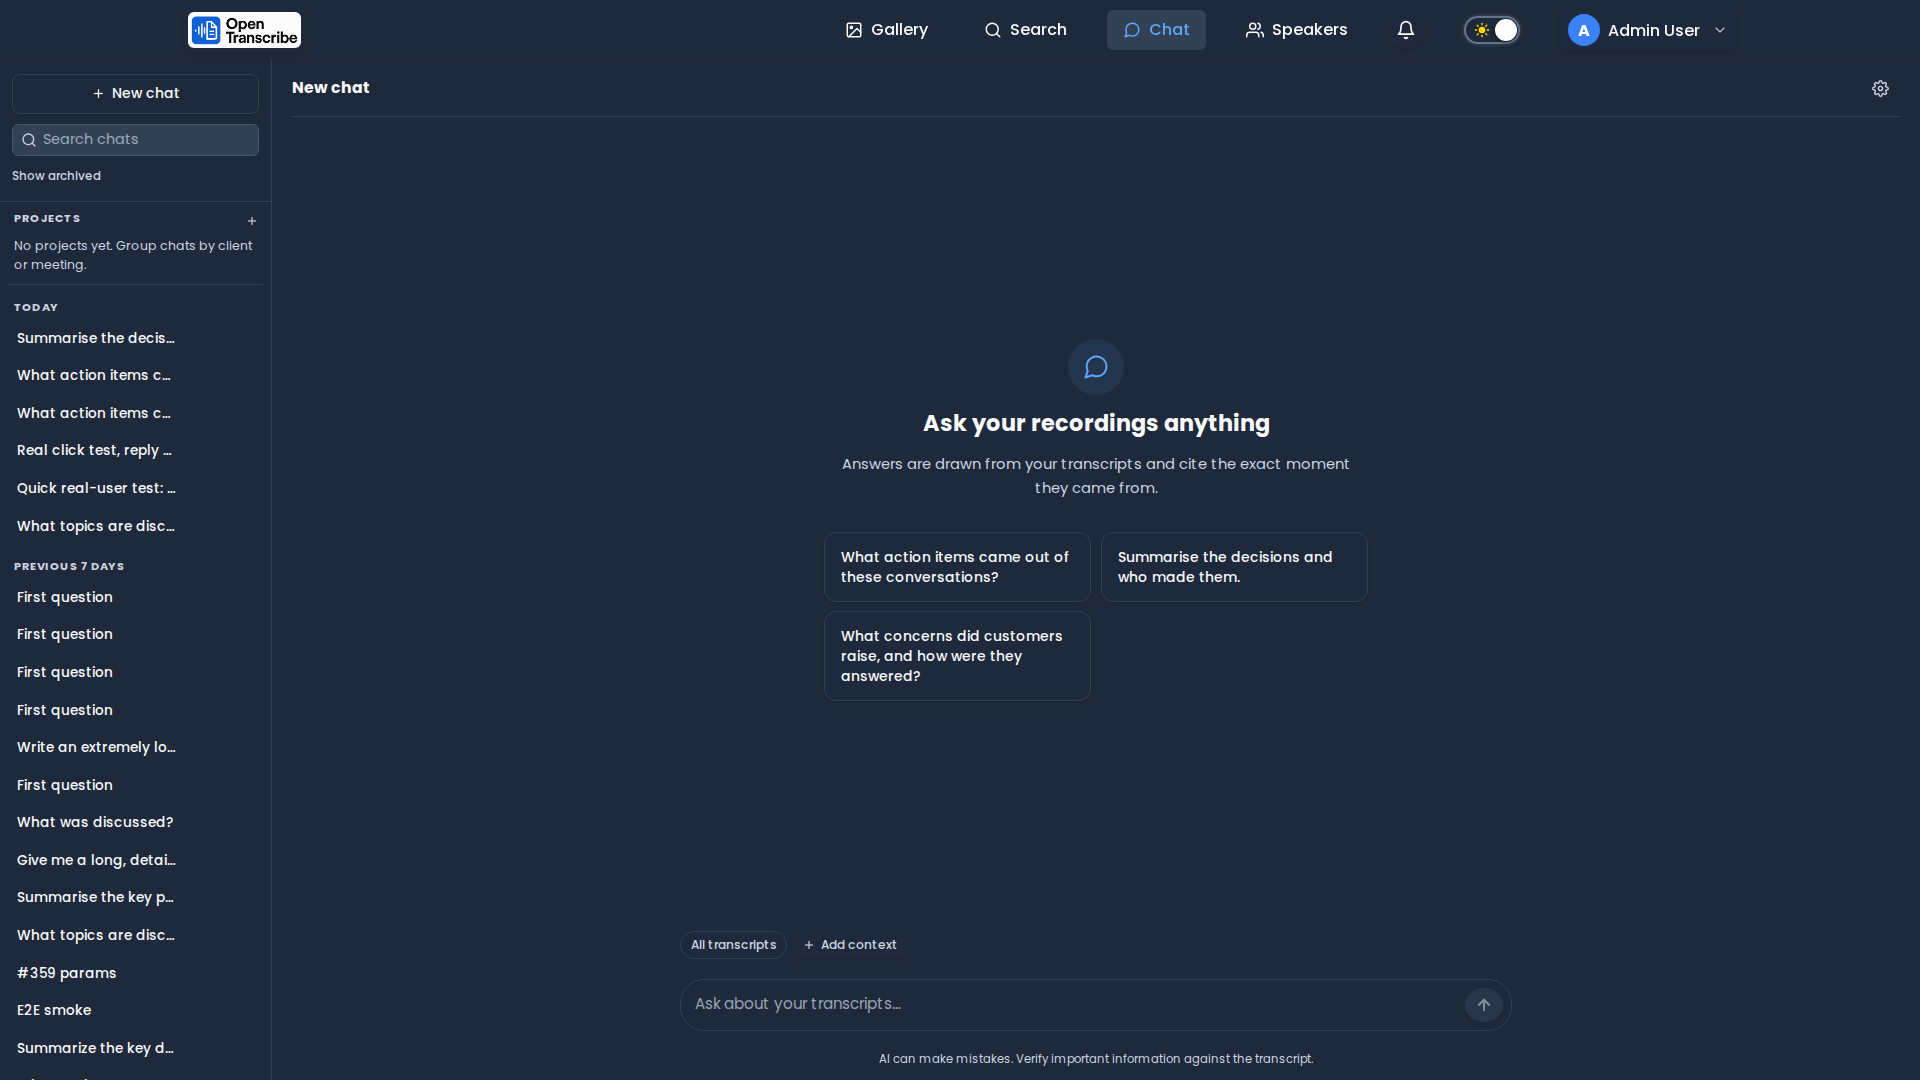
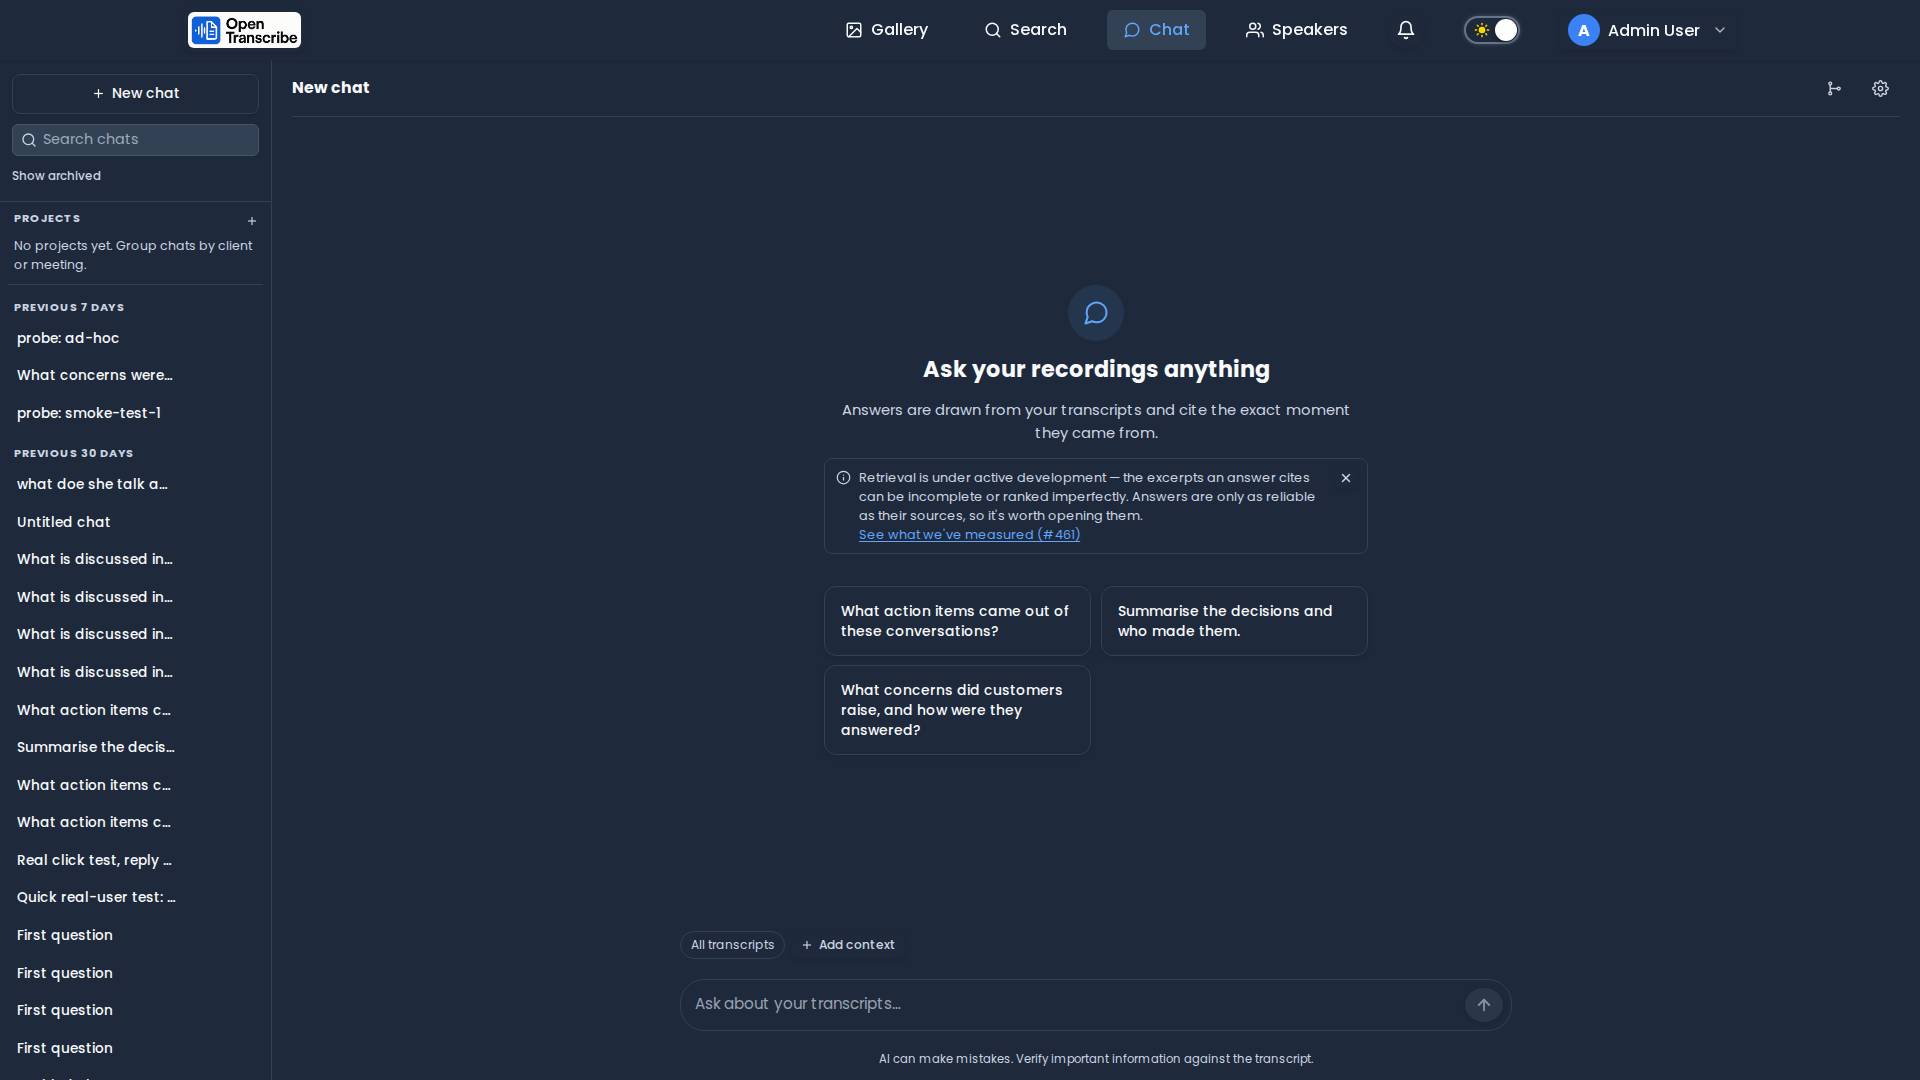
docs(site): document #626 degraded-file re-embed and refresh chat screenshots
neural-search-setup.md had no user-facing documentation for the admin
preview/confirm UI that recovers text-only files left behind by a neural
search outage (#625/#626) — add a "Recovering Text-Only Files" section
under Reindexing Transcripts, matching the actual SearchSettings.svelte
button/banner copy.

The chat/01 and chat/03 screenshots predated a wave of chat UI work
(query trace panel, the honest retrieval-quality notice, English-only
RAG scope warning) merged since they were captured on Aug 9 — recapture
both light/dark variants against the live dev stack so they reflect the
current UI.

diff --git a/docs-site/docs/configuration/neural-search-setup.md b/docs-site/docs/configuration/neural-search-setup.md
@@ -249,6 +249,32 @@ New transcripts are automatically embedded when uploaded. Only use "Reindex All"
 - Changing embedding models
 - Recovering from indexing errors
 
+### Recovering Text-Only Files From a Neural Search Outage
+
+If the neural search backend is briefly unavailable (a slow or cold OpenSearch ML boot), files
+transcribed during that window are indexed as full-text only — they have no embedding vector and
+are excluded from neural/hybrid search until re-embedded.
+
+**The bootstrap itself self-heals automatically.** A background task retries neural search
+availability on a backoff, so new uploads resume getting embeddings again without any admin
+action once the backend recovers.
+
+**Files already indexed during the outage need one manual step.** They don't get an embedding
+added later on their own. To recover them:
+
+1. Go to **Settings** → **Search Configuration**
+2. If any files were left text-only, a banner reports the affected file count (separate from the
+   "neural search degraded" bootstrap banner — a file can be stuck here even after the backend
+   itself has fully recovered)
+3. Click **Re-embed Degraded Files**
+4. Confirm in the dialog, which shows the file and user counts affected
+5. Progress reports through the same reindex notification as **Reindex All Transcripts**
+
+:::note Large Backlogs
+The preview can be truncated on very large backlogs. If the banner says so after a re-embed
+completes, run **Re-embed Degraded Files** again to catch the remaining files.
+:::
+
 ## Frontend Features
 
 ### User Search Interface
